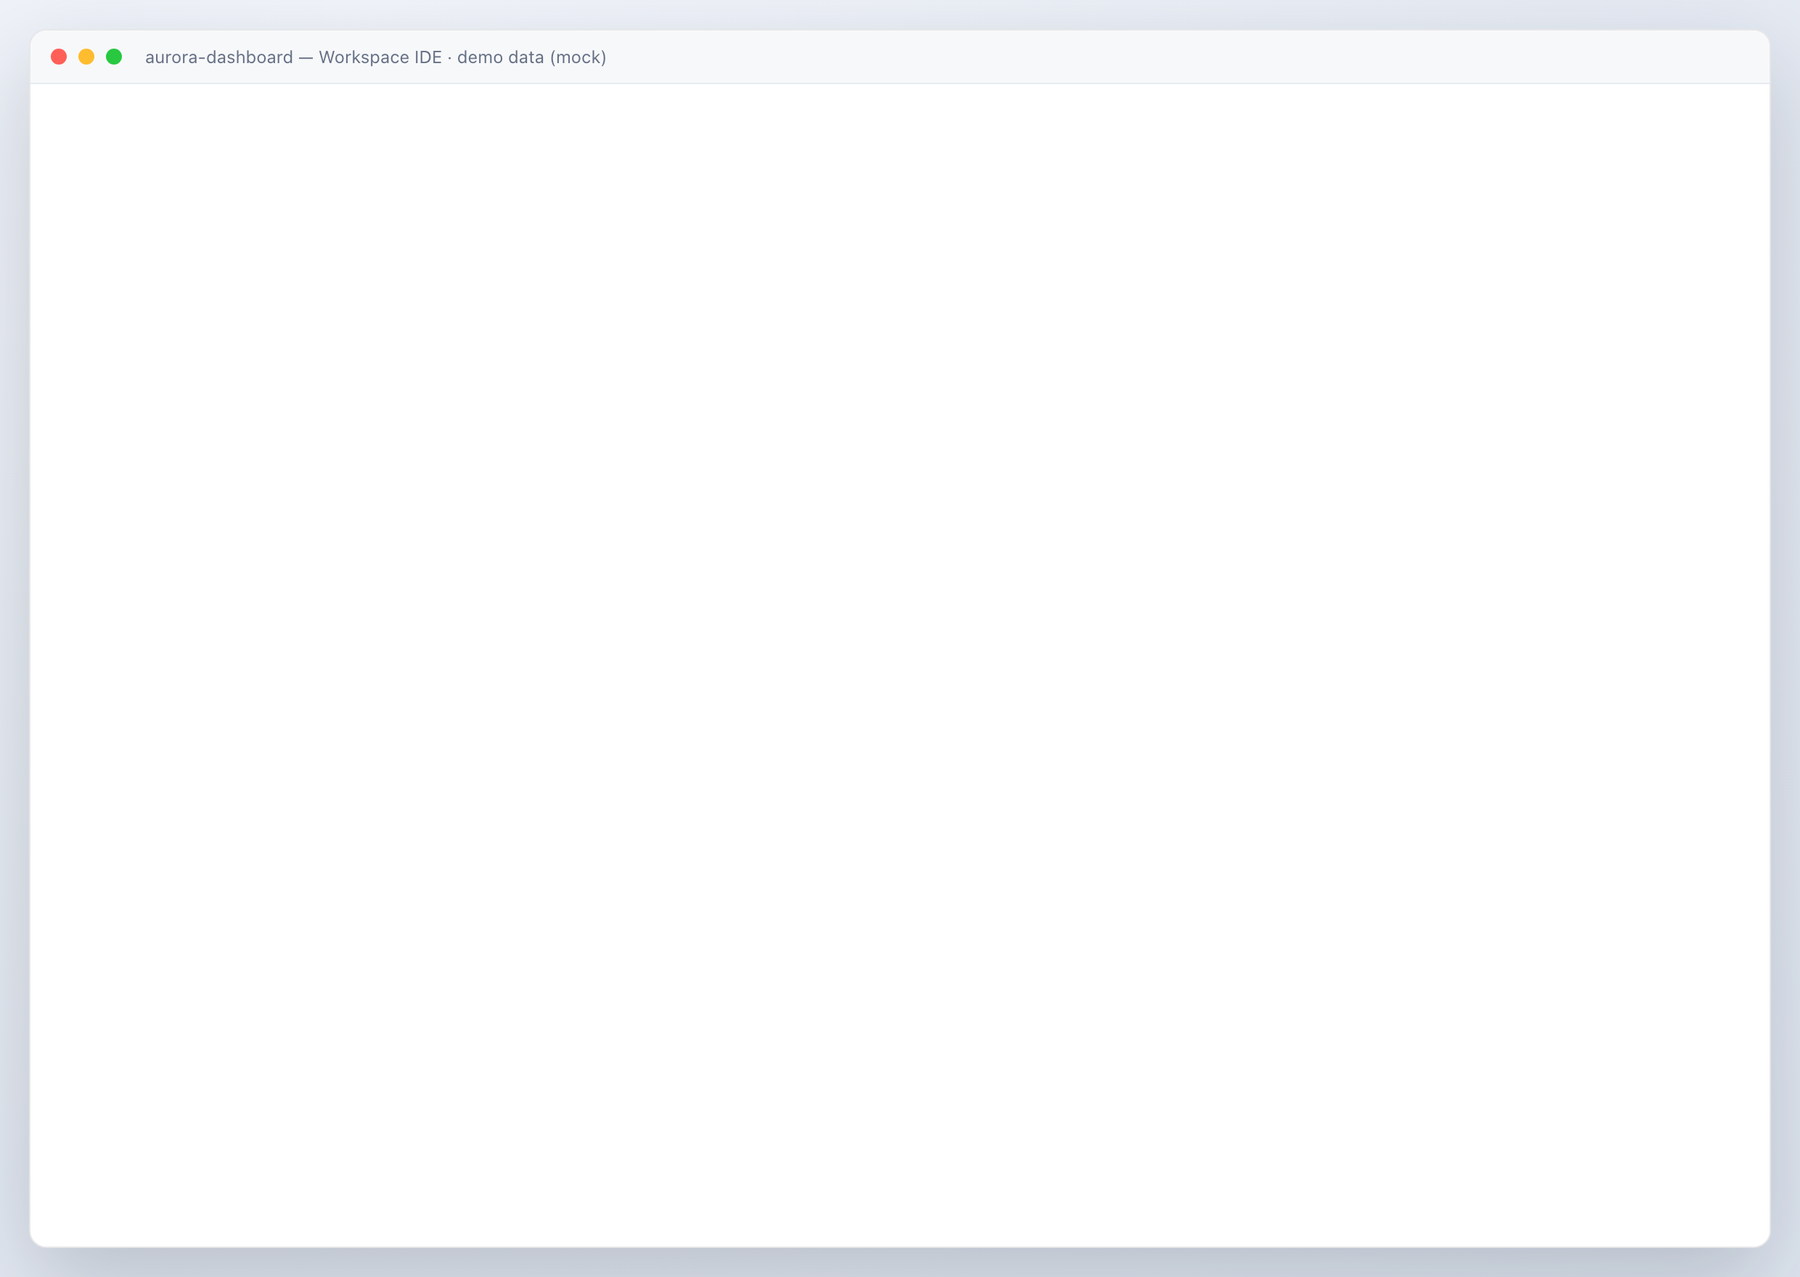
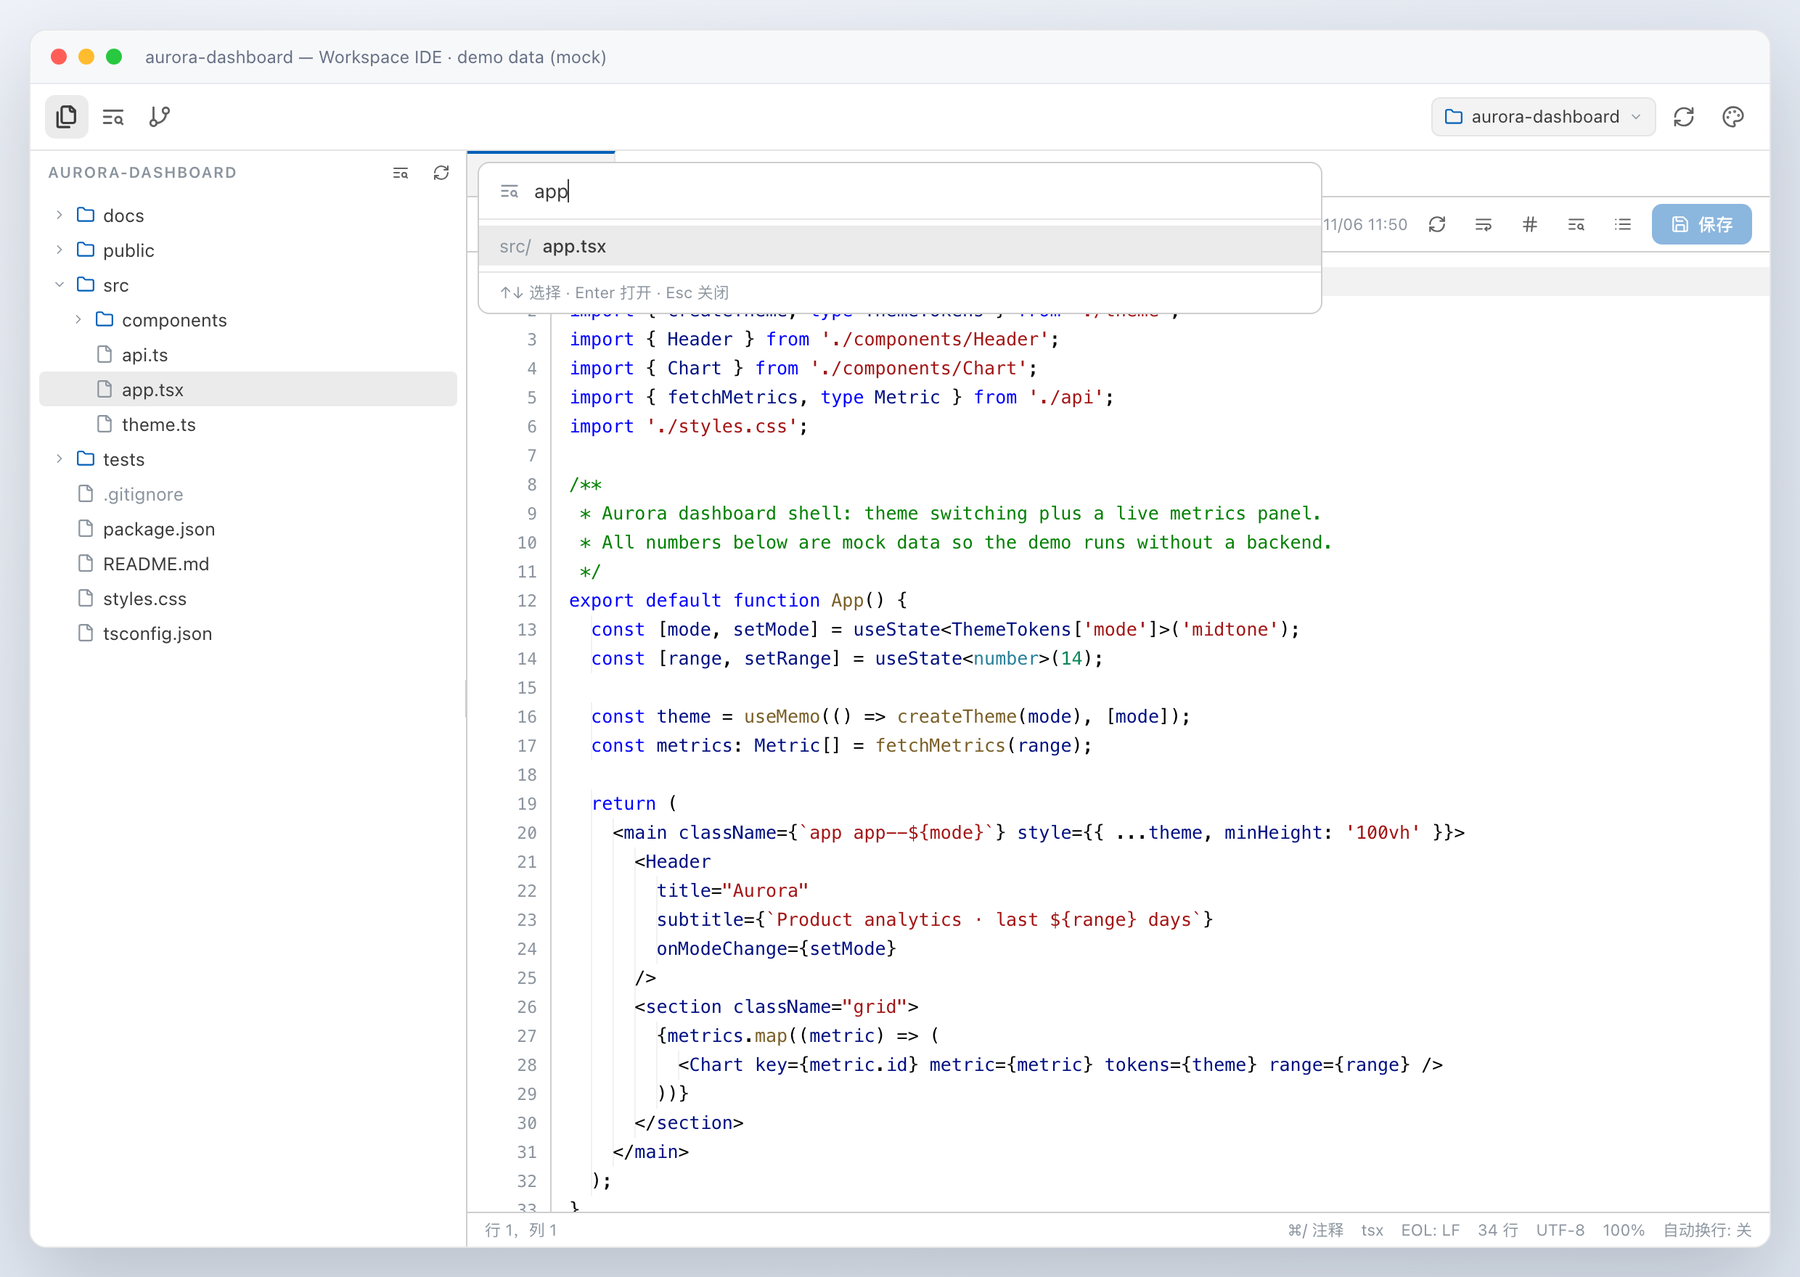
fix(client): Quick Open empty-query rows + blank README screenshot (v1.8.6)
- Empty-query Quick Open returned bare path strings while the palette renderer
  expects {path, score} rows, throwing on row.path.lastIndexOf and blanking the
  panel. New S.quickOpenRows normalizes both modes (recent-first paths for the
  empty query, fuzzy-ranked objects otherwise) and FilesView uses it.
- Smoke test covers both row shapes; README screenshot-quick-open.png is no
  longer a blank window (screenshot harness now reaches READY for that scene).
- Regenerated affected screenshots; version 1.8.6.

diff --git a/lib/client.js b/lib/client.js
@@ -6510,6 +6510,26 @@ function orderQuickFiles(recent, files, limit) {
 }
 S.orderQuickFiles = orderQuickFiles;
 /**
+ * Quick-open palette rows for one query. Empty queries are recent-first; typed
+ * queries use fuzzy ranking. Always returns `{path, score}` objects so the
+ * palette renderer has one shape.
+ * @param query - typed query.
+ * @param files - workspace index.
+ * @param recent - open history (oldest first).
+ * @param limit - maximum rows.
+ * @returns rows, best first.
+ */
+function quickOpenRows(query, files, recent, limit) {
+    const max = typeof limit === 'number' && Number.isFinite(limit) && limit > 0 ? Math.floor(limit) : 50;
+    if (typeof query !== 'string' || query.trim().length === 0) {
+        return orderQuickFiles(recent, files, max).map(function (filePath) {
+            return { path: filePath, score: 0 };
+        });
+    }
+    return rankQuickOpen(query, files, max);
+}
+S.quickOpenRows = quickOpenRows;
+/**
  * Extract navigable symbols (functions/classes/types/constants/methods,
  * markdown headings, JSON keys) for Go-to-Symbol. Regex-based on purpose: it
  * must stay dependency-free and cheap on large files.
@@ -8245,10 +8265,9 @@ function FilesView(props) {
     const quickResults = useMemo(function () {
         if (quickOpen === false || quickFiles === null)
             return [];
-        if (quickQuery.trim().length === 0) {
-            return typeof S.orderQuickFiles === 'function' ? S.orderQuickFiles(recentPaths, quickFiles, 50) : quickFiles.slice(0, 50);
-        }
-        return typeof S.rankQuickOpen === 'function' ? S.rankQuickOpen(quickQuery, quickFiles, 50) : [];
+        return typeof S.quickOpenRows === 'function'
+            ? S.quickOpenRows(quickQuery, quickFiles, recentPaths, 50)
+            : (typeof S.rankQuickOpen === 'function' ? S.rankQuickOpen(quickQuery, quickFiles, 50) : []);
     }, [quickOpen, quickQuery, quickFiles, recentPaths]);
     const symbolItems = useMemo(function () {
         if (symbolsOpen === false || file.status !== 'loaded')
@@ -11300,6 +11319,7 @@ S.face = {
             quickOpenScore: S.quickOpenScore,
             rankQuickOpen: S.rankQuickOpen,
             orderQuickFiles: S.orderQuickFiles,
+            quickOpenRows: S.quickOpenRows,
             extractSymbols: S.extractSymbols,
             duplicateLines: S.duplicateLines,
             moveLines: S.moveLines,

diff --git a/src/client/20-files.ts b/src/client/20-files.ts
@@ -1167,6 +1167,28 @@ function orderQuickFiles(recent: string[], files: string[], limit?: number): str
 
 S.orderQuickFiles = orderQuickFiles;
 
+/**
+ * Quick-open palette rows for one query. Empty queries are recent-first; typed
+ * queries use fuzzy ranking. Always returns `{path, score}` objects so the
+ * palette renderer has one shape.
+ * @param query - typed query.
+ * @param files - workspace index.
+ * @param recent - open history (oldest first).
+ * @param limit - maximum rows.
+ * @returns rows, best first.
+ */
+function quickOpenRows(query: string, files: string[], recent: string[], limit?: number): Array<{ path: string, score: number }> {
+  const max = typeof limit === 'number' && Number.isFinite(limit) && limit > 0 ? Math.floor(limit) : 50;
+  if (typeof query !== 'string' || query.trim().length === 0) {
+    return orderQuickFiles(recent, files, max).map(function (filePath: string) {
+      return { path: filePath, score: 0 };
+    });
+  }
+  return rankQuickOpen(query, files, max);
+}
+
+S.quickOpenRows = quickOpenRows;
+
 /** One navigable symbol in the current file. */
 interface FileSymbol {
   name: string;
@@ -3224,10 +3246,9 @@ function FilesView(props: any) {
   const quickResults = useMemo(
     function () {
       if (quickOpen === false || quickFiles === null) return [];
-      if (quickQuery.trim().length === 0) {
-        return typeof S.orderQuickFiles === 'function' ? S.orderQuickFiles(recentPaths, quickFiles, 50) : quickFiles.slice(0, 50);
-      }
-      return typeof S.rankQuickOpen === 'function' ? S.rankQuickOpen(quickQuery, quickFiles, 50) : [];
+      return typeof S.quickOpenRows === 'function'
+        ? S.quickOpenRows(quickQuery, quickFiles, recentPaths, 50)
+        : (typeof S.rankQuickOpen === 'function' ? S.rankQuickOpen(quickQuery, quickFiles, 50) : []);
     },
     [quickOpen, quickQuery, quickFiles, recentPaths],
   );

diff --git a/src/client/99-face.ts b/src/client/99-face.ts
@@ -164,6 +164,7 @@ S.face = {
       quickOpenScore: S.quickOpenScore,
       rankQuickOpen: S.rankQuickOpen,
       orderQuickFiles: S.orderQuickFiles,
+      quickOpenRows: S.quickOpenRows,
       extractSymbols: S.extractSymbols,
       duplicateLines: S.duplicateLines,
       moveLines: S.moveLines,

diff --git a/CHANGELOG.md b/CHANGELOG.md
@@ -4,6 +4,14 @@ All notable changes to `dsh-workspace-ide` are documented here. Releases are
 annotated Git tags; every entry ships the prebuilt Host + client halves, so
 installing needs no build step and no runtime dependency beyond DSH and React.
 
+## 1.8.6 — 2026-11-12
+
+### Fixed
+- Quick Open with an empty query crashed the renderer: recent-first results were
+  bare path strings while the palette rows expect `{path, score}` objects. Added
+  `S.quickOpenRows` to normalize both query modes and fixed the README
+  `screenshot-quick-open.png` blank image. Smoke test covers both row shapes.
+
 ## 1.8.5 — 2026-11-12
 
 ### Changed
